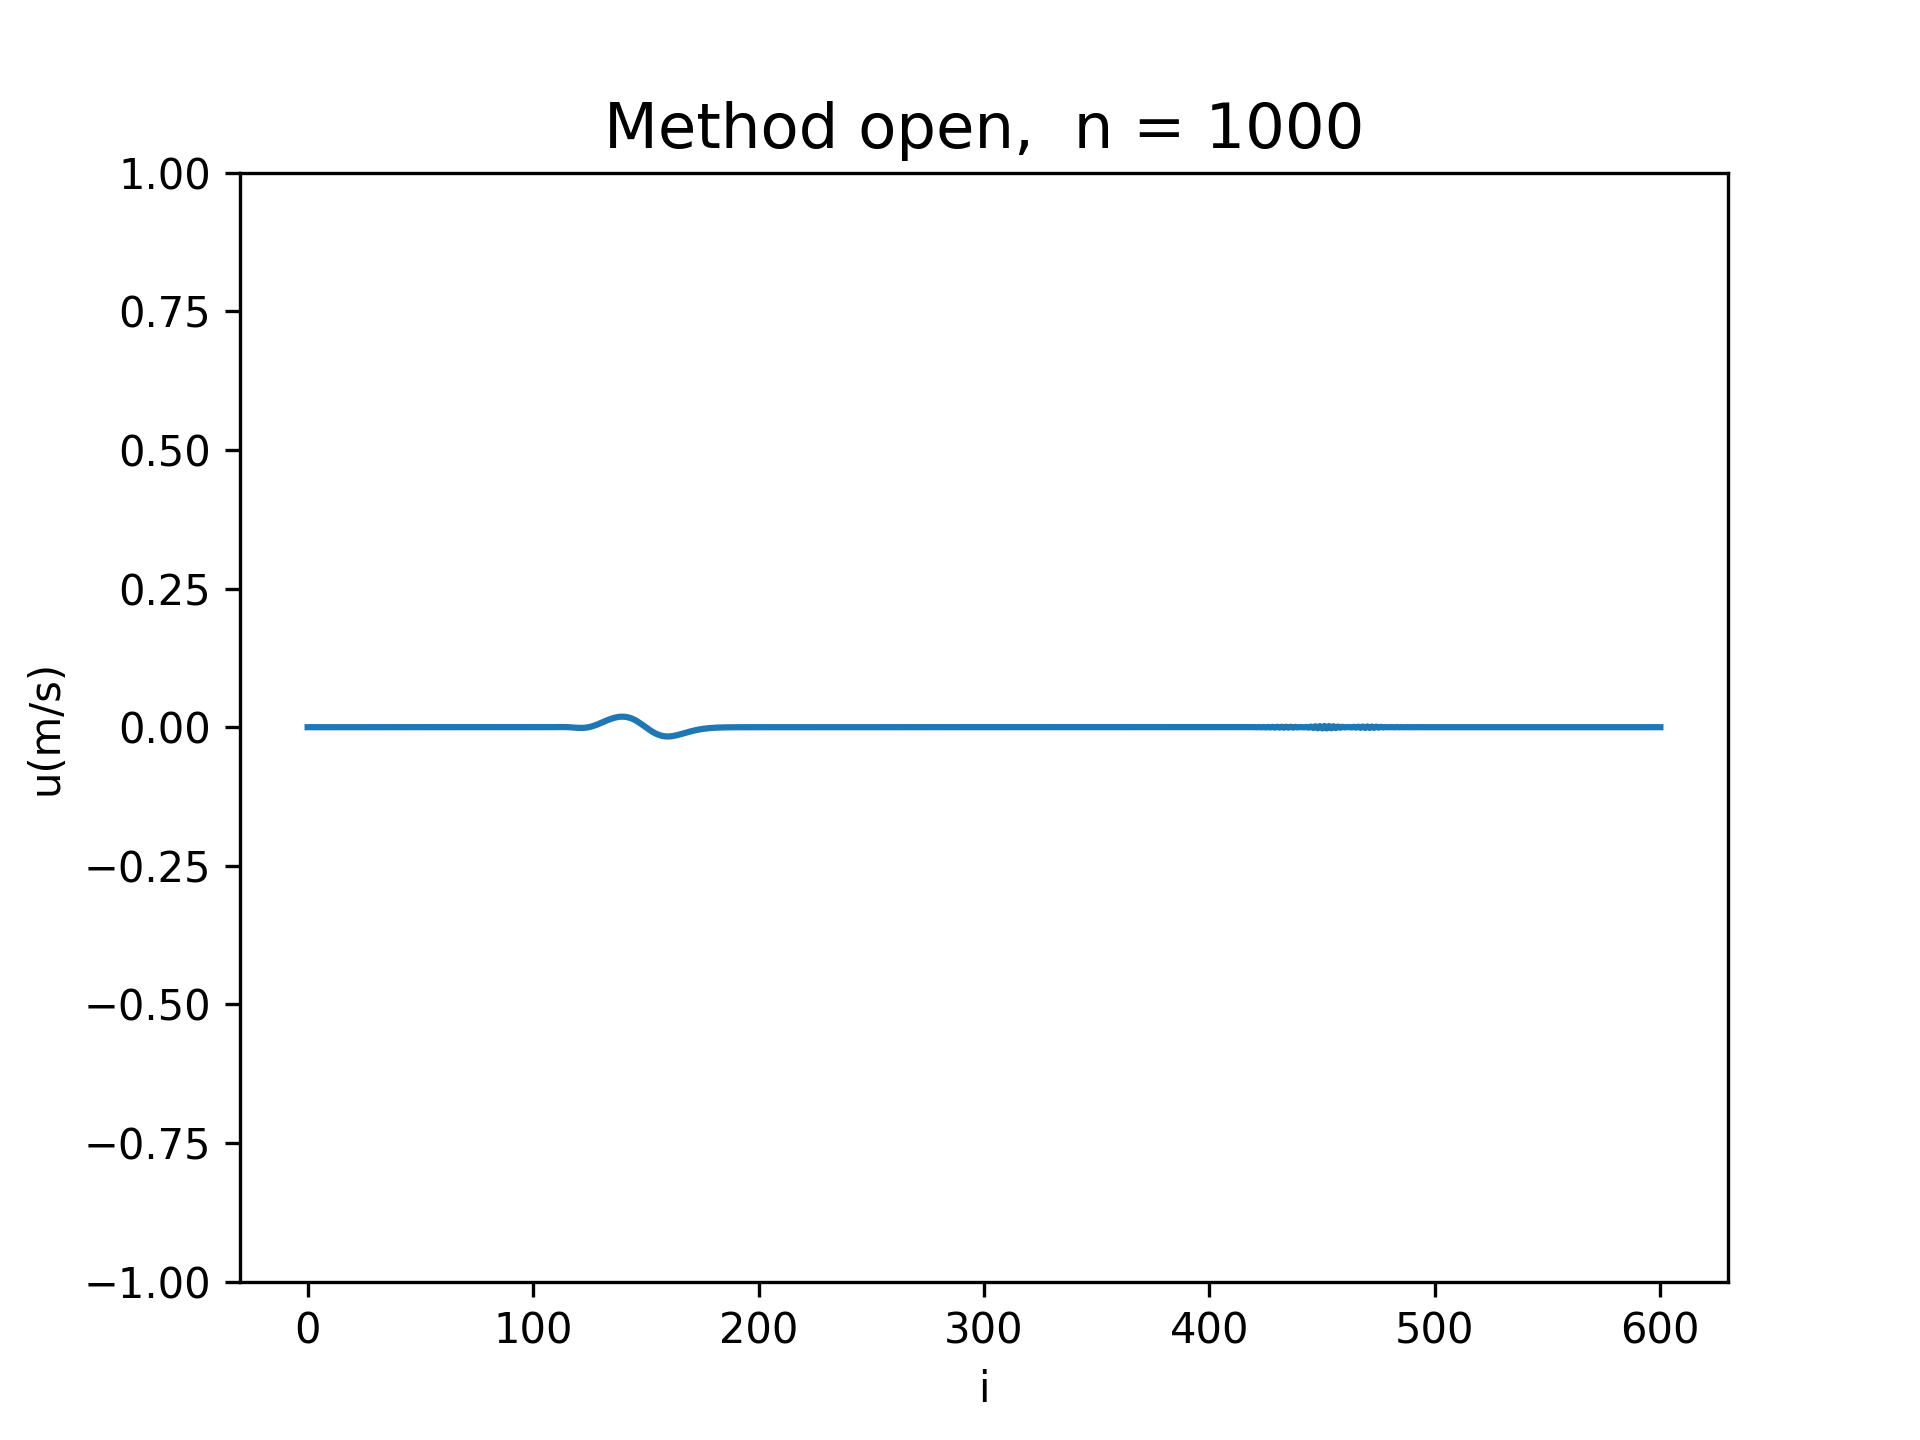
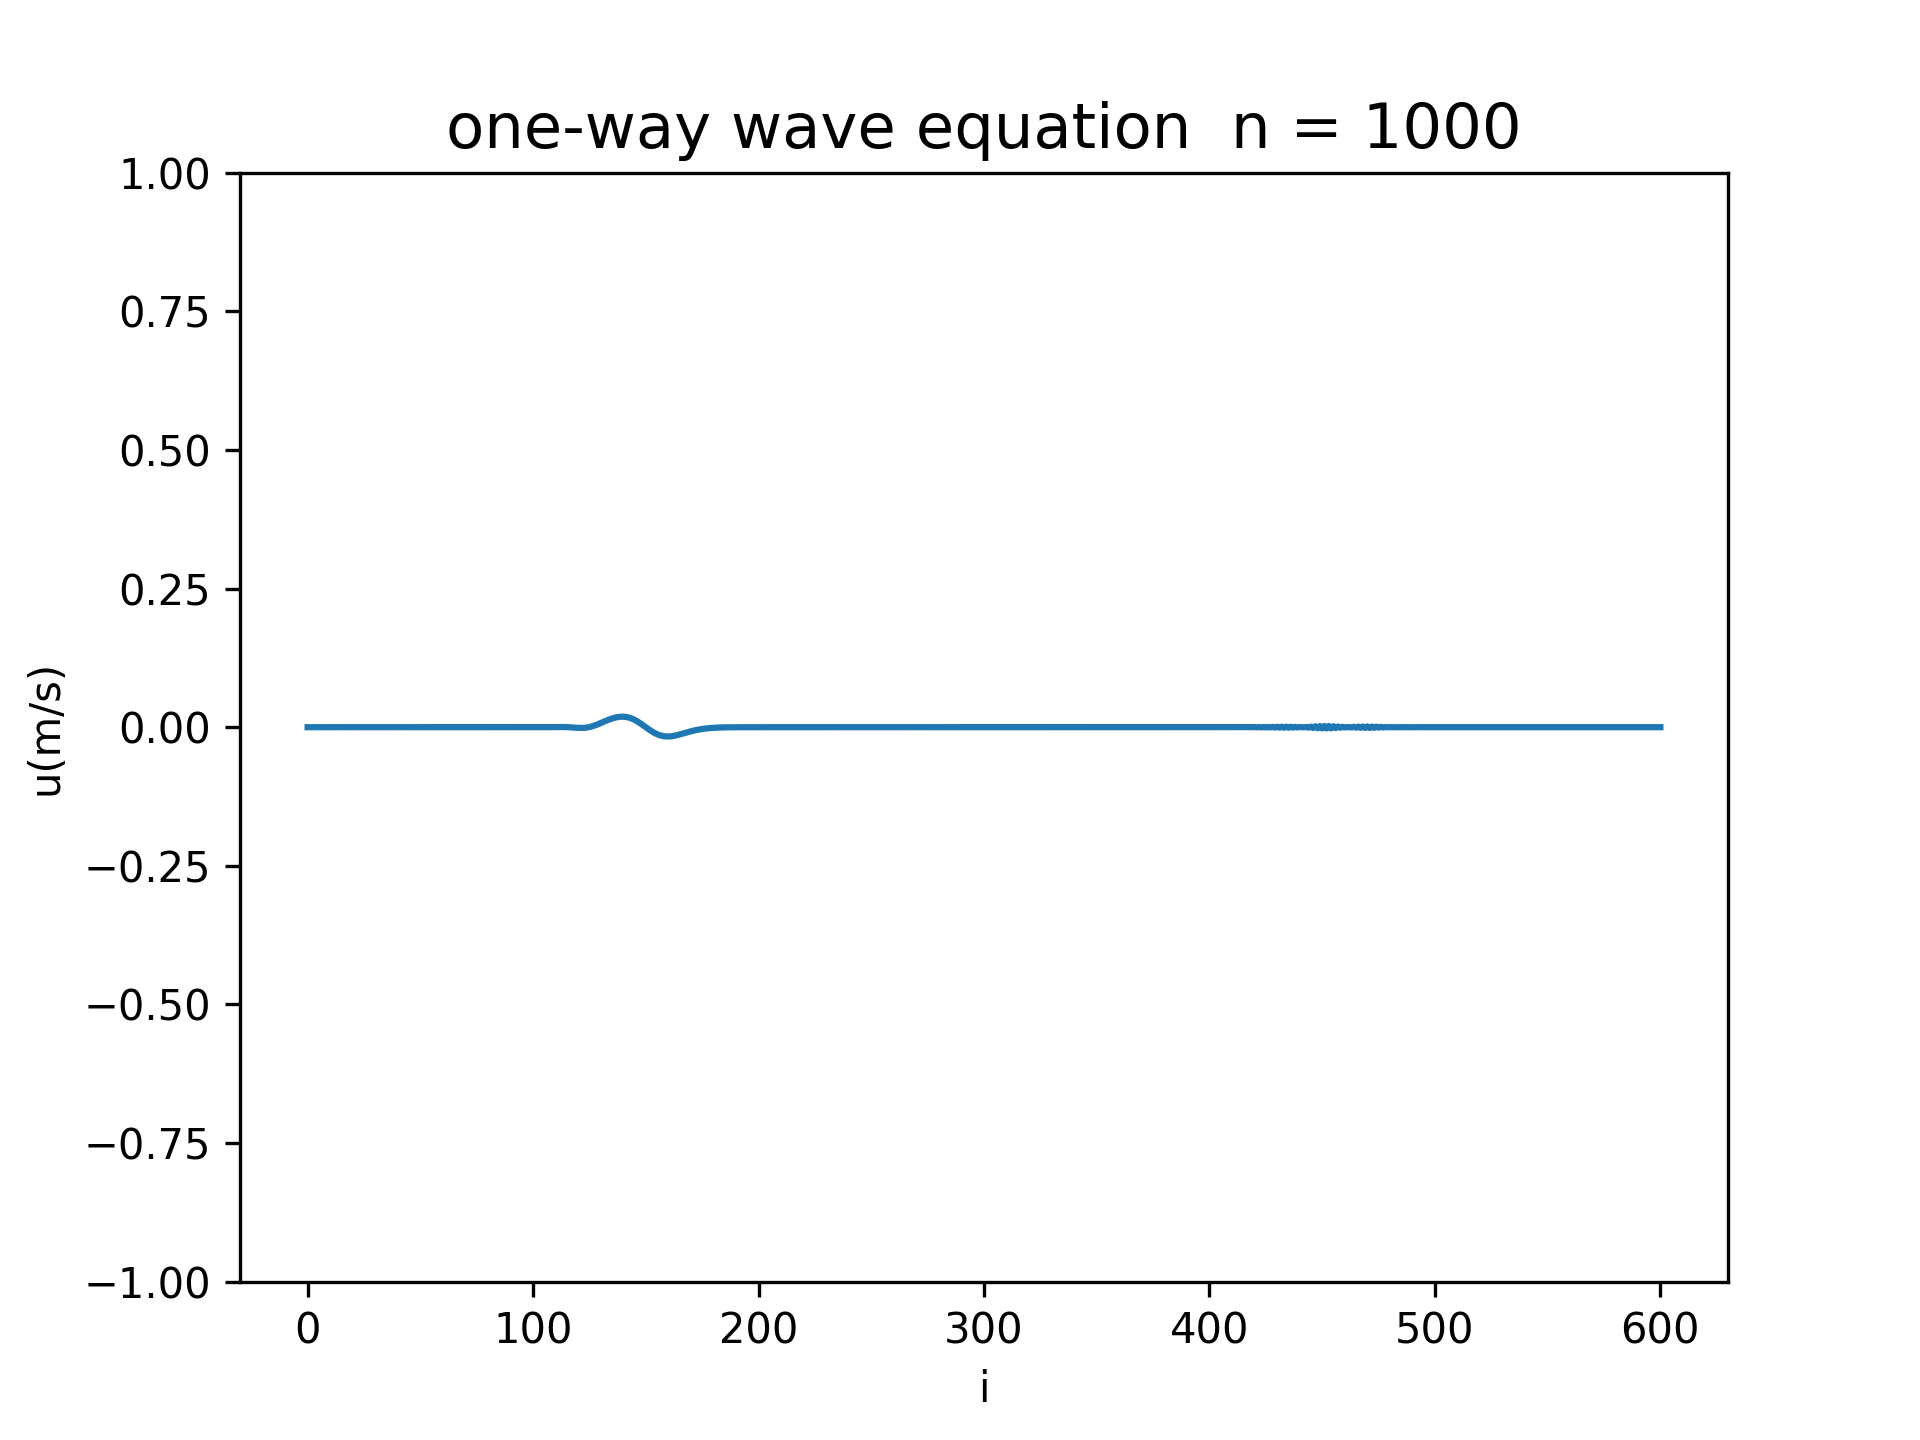
L07.ex

Changed region(s): [[0.2188, 0.0625, 0.7812, 0.125]]

diff --git a/Ex/L07/L07_ex2_3.py b/Ex/L07/L07_ex2_3.py
@@ -208,7 +208,7 @@ for n in range(0, Nt + 1):
         u_new.tofile(outfile, sep=',', format='%f')
         outfile.write('\n')
 
-        if (n >= 700):
+        if (n >= 750):
           # Plot graph in every n%rt == 0
           # plot name
           plt_ex = "/ex" + ex_no + "_"
@@ -218,8 +218,9 @@ for n in range(0, Nt + 1):
 
           # title name
           if met=='open':
-            title_m = "one-way wave equation"
-          title_m = "Method " + str(met) + ",  "
+            title_m = "one-way wave equation  "
+          else:
+            title_m = "Method " + str(met) + ",  "
           title_n = "n = {:03}".format(n)
           title = title_m + title_n
           
